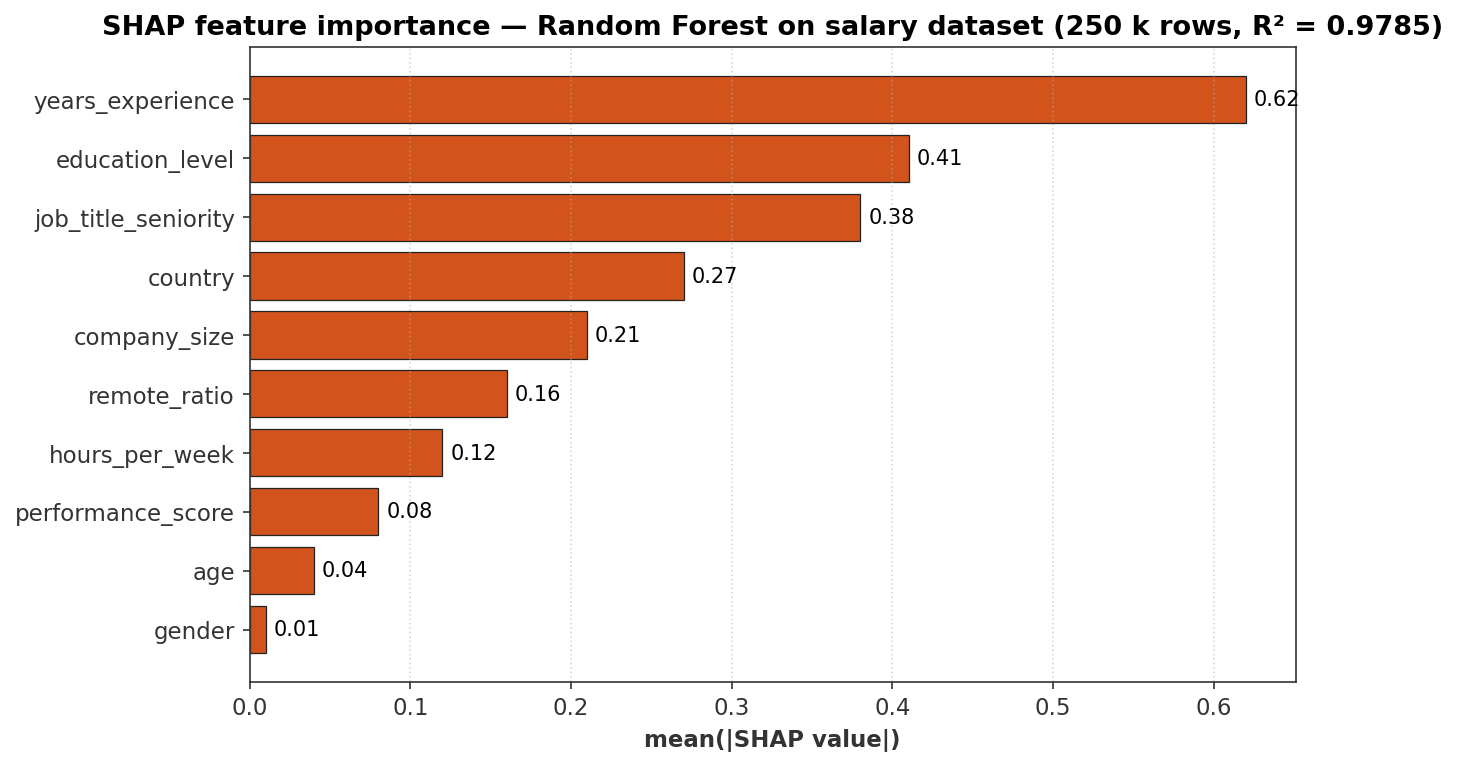
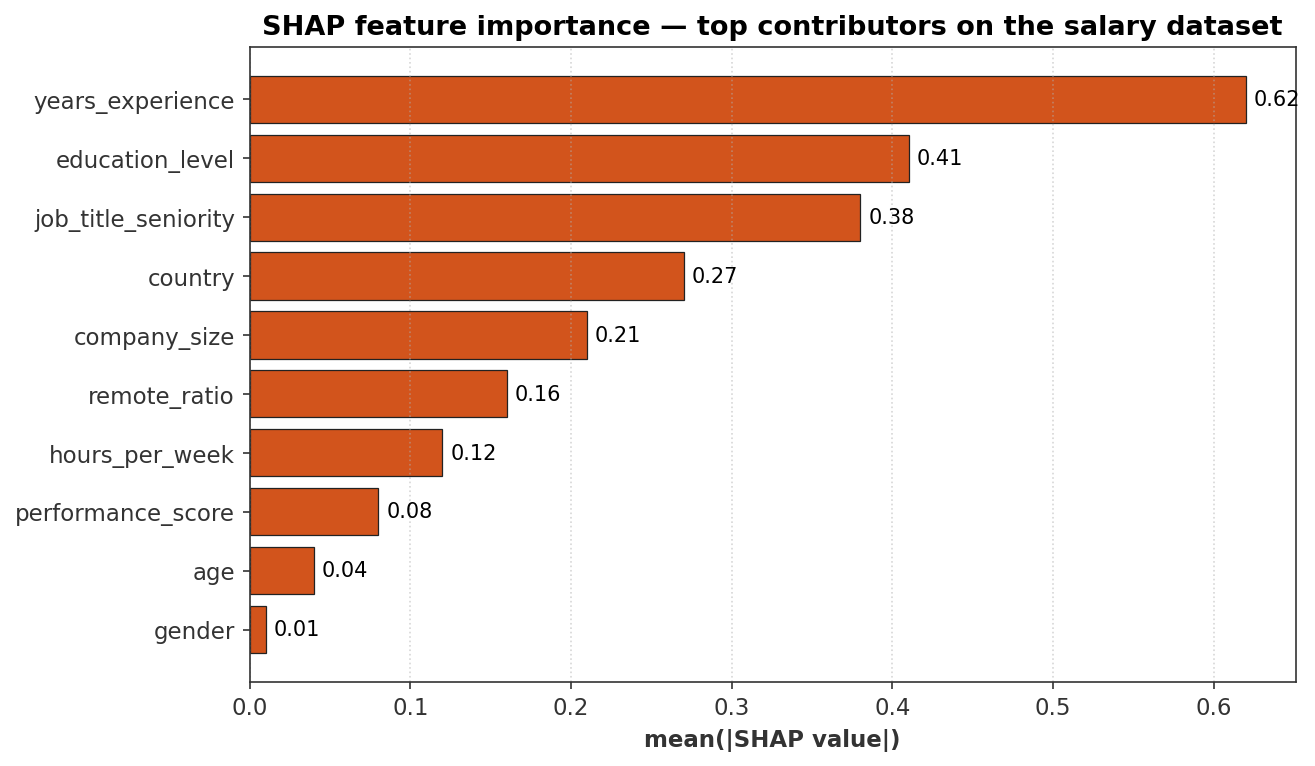
docs(report): remove Dedication; fix final-results dashboard to real numbers (CatBoost 0.9818, not stale RF 0.9785)
- regenerate conclusion_fig1 dashboard with corrected metrics + drop stale R2 from SHAP chart title

diff --git a/finalReportData.tex b/finalReportData.tex
@@ -118,39 +118,6 @@
 % Official ISET Rades cover page (replaces the generated title page)
 \includepdf[pages=1,fitpaper=true]{cover_page.pdf}
 
-\chapter*{Dedication}
-\addcontentsline{toc}{chapter}{Dedication}
-
-I dedicate this work to the people whose love and support carried me
-through this journey.
-
-\bigskip
-\noindent\textit{To my mother,}\\
-whose unconditional love, patience, and quiet strength have been my
-guiding light. You taught me to chase my goals with determination, and
-nothing I achieve would mean as much without you.
-
-\medskip
-\noindent\textit{To my father,}\\
-whose hard work and steadiness showed me the value of perseverance.
-Your faith in my abilities has been a constant push to aim higher.
-
-\medskip
-\noindent\textit{To my brother and sister,}\\
-for the companionship and encouragement that made the hardest moments
-lighter and the good ones brighter.
-
-\medskip
-\noindent\textit{To my friends,}\\
-who stood by me, kept me going, and turned a demanding year into one I
-will remember fondly.
-
-\bigskip
-\noindent Thank you all --- this achievement is as much yours as it is
-mine.
-
-\newpage
-
 \chapter*{Acknowledgements}
 \addcontentsline{toc}{chapter}{Acknowledgements}
 

diff --git a/diagrams/charts/generate_charts.py b/diagrams/charts/generate_charts.py
@@ -246,7 +246,7 @@ def ch5_fig6_shap():
     ax.set_yticklabels(features)
     ax.invert_yaxis()
     ax.set_xlabel("mean(|SHAP value|)")
-    ax.set_title("SHAP feature importance — Random Forest on salary dataset (250 k rows, R² = 0.9785)")
+    ax.set_title("SHAP feature importance — top contributors on the salary dataset")
     for i, v in enumerate(shap_vals):
         ax.text(v + 0.005, i, f"{v:.2f}", va="center", fontsize=10)
     ax.grid(axis="x", linestyle=":", alpha=0.5)
@@ -313,14 +313,14 @@ def conclusion_fig1_results():
     ax1.text(0.5, 0.82, "Salary dataset · 250 000 rows", ha="center", va="top",
              transform=ax1.transAxes, fontsize=11, style="italic")
 
-    ax1.text(0.5, 0.62, "0.9785", ha="center", va="center",
+    ax1.text(0.5, 0.62, "0.9818", ha="center", va="center",
              transform=ax1.transAxes, fontsize=42, weight="bold", color=PALETTE["primary"])
     ax1.text(0.5, 0.5, "R²", ha="center", va="center",
              transform=ax1.transAxes, fontsize=14, color="#555")
 
-    ax1.text(0.5, 0.35, "Random Forest (H2O)", ha="center", transform=ax1.transAxes, fontsize=11)
-    ax1.text(0.5, 0.27, "4 min 12 s on GTX 1660 Super", ha="center", transform=ax1.transAxes, fontsize=10)
-    ax1.text(0.5, 0.18, "TreeSHAP explanations in 8 s", ha="center", transform=ax1.transAxes, fontsize=10)
+    ax1.text(0.5, 0.35, "CatBoost (best of 3 compared)", ha="center", transform=ax1.transAxes, fontsize=11)
+    ax1.text(0.5, 0.27, "2.7 s on GTX 1660 Super", ha="center", transform=ax1.transAxes, fontsize=10)
+    ax1.text(0.5, 0.18, "MAE ≈ 4,010  ·  RMSE ≈ 5,022", ha="center", transform=ax1.transAxes, fontsize=10)
     ax1.text(0.5, 0.09, "Joblib export + FastAPI inference zip",
              ha="center", transform=ax1.transAxes, fontsize=10, style="italic")
 